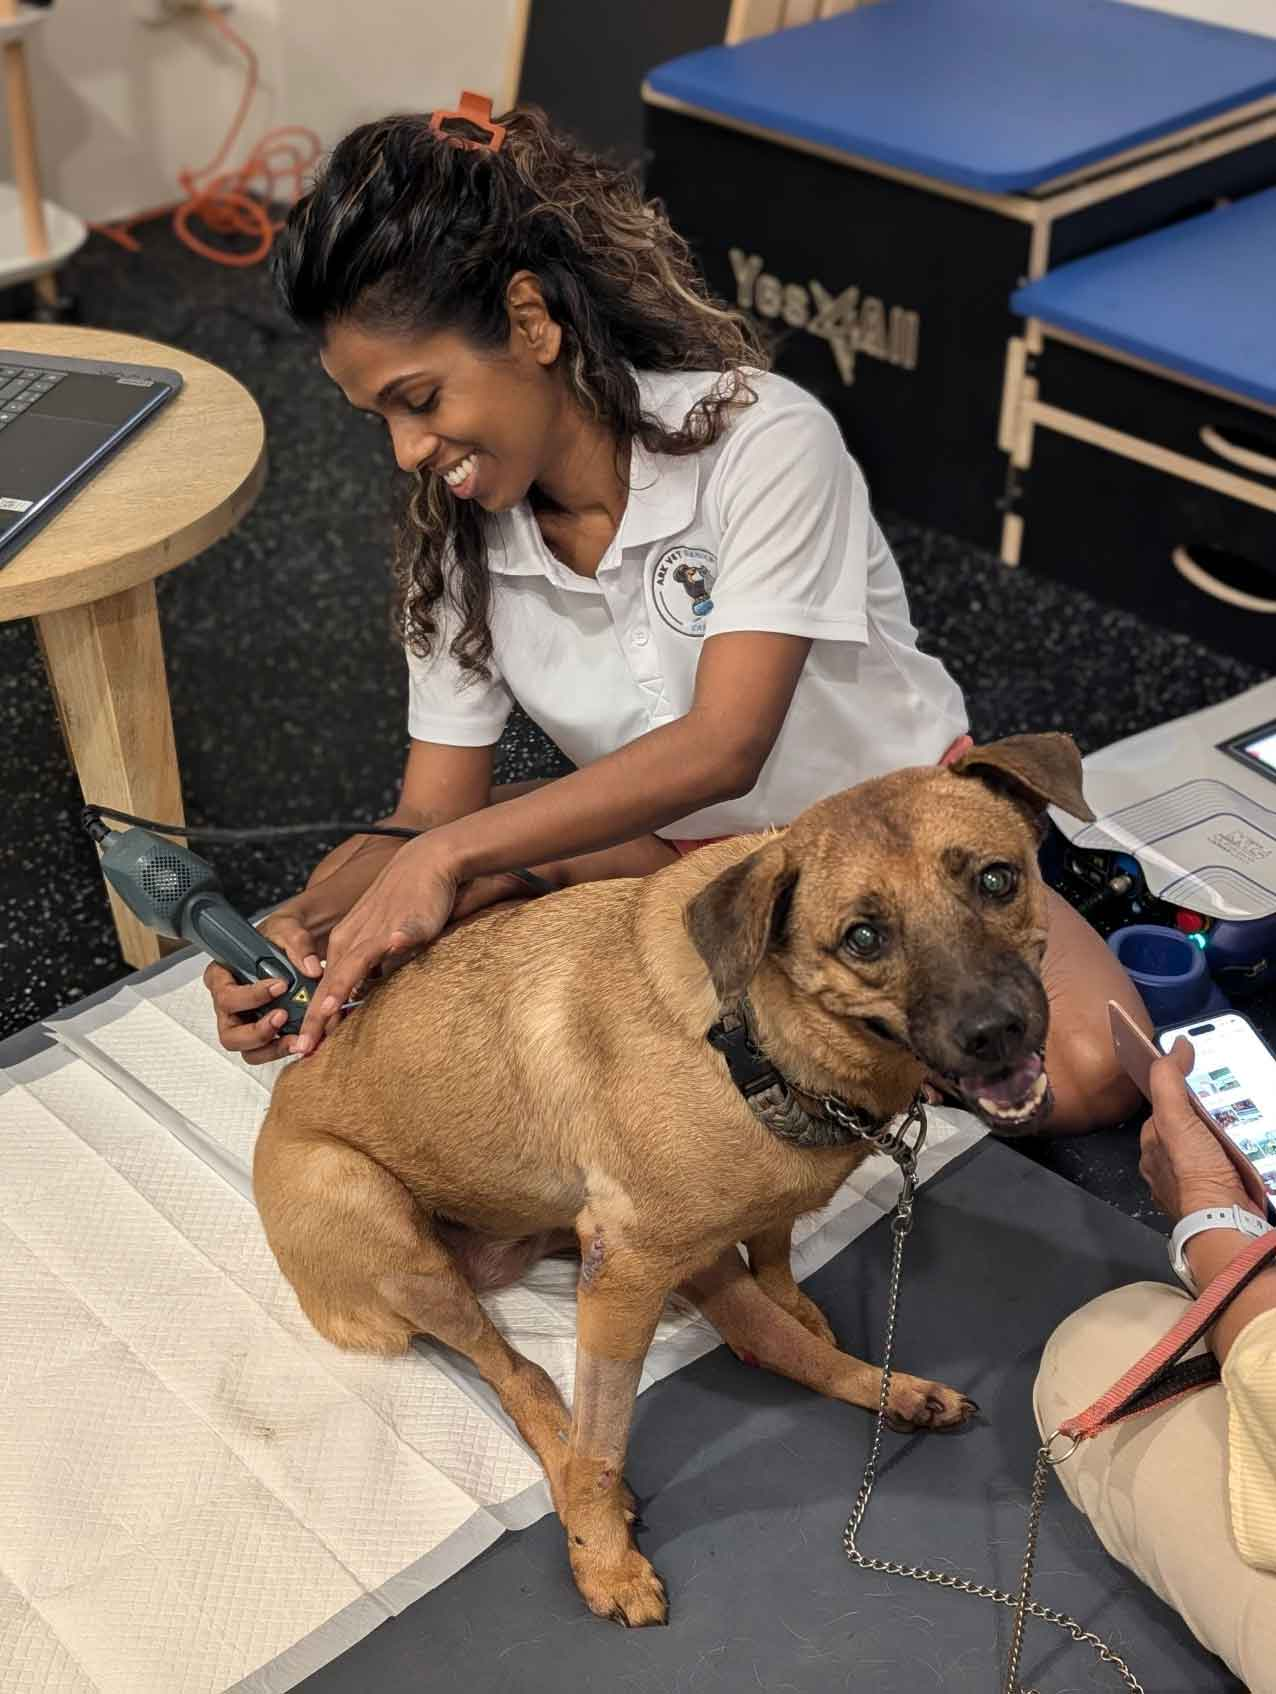
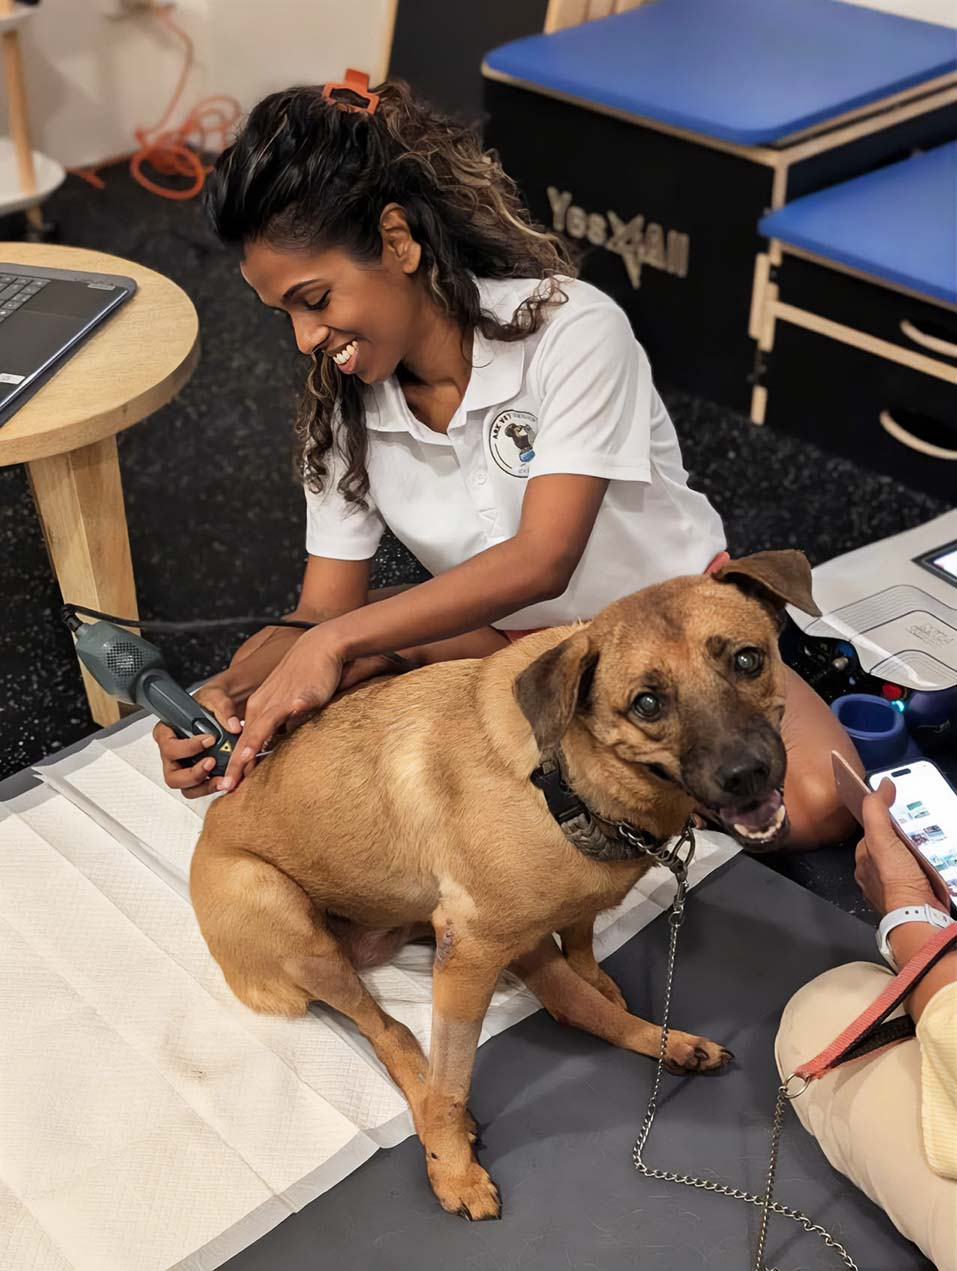
Add service images and refactor slideshow CSS
Add multiple service images (acupuncture, housecall, and updated arkvetrehab-home) and update images/.DS_Store. Major refactor of slideshow styles in style.css: remove duplicated per-service keyframes and animations and introduce unified sv2 (2-image) and sv3 (3-image) keyframes, consolidate slide/img selectors, set per-service durations/delays, and keep accessible prefers-reduced-motion fallbacks. Purpose: simplify animation logic, ensure consistent timing and easier maintenance.

Changed region(s): [[0.5152, 0.3068, 0.5455, 0.3682], [0.3333, 0.2762, 0.3636, 0.3068]]

diff --git a/style.css b/style.css
@@ -635,160 +635,113 @@ nav {
   height: 100%;
   object-fit: cover;
 }
-/* --- Slideshow keyframes --- */
-@keyframes slide-in  { 0%,45%{opacity:1} 55%,95%{opacity:0} 100%{opacity:1} }
-@keyframes slide-out { 0%,45%{opacity:0} 55%,95%{opacity:1} 100%{opacity:0} }
-@-webkit-keyframes slide-in  { 0%,45%{opacity:1} 55%,95%{opacity:0} 100%{opacity:1} }
-@-webkit-keyframes slide-out { 0%,45%{opacity:0} 55%,95%{opacity:1} 100%{opacity:0} }
+/* ========================================
+   Unified slideshow — pure opacity fade
+   2-img: 5s cycle (2.5s each)
+   3-img: 7.5s cycle (2.5s each)
+   ======================================== */
 
-/* --- Laser slideshow --- */
+/* 2-image keyframes */
+@keyframes sv2-show {
+  0%  { opacity:1; transform:scale(1.0);  }
+  42% { opacity:1; transform:scale(1.05); }
+  50% { opacity:0; transform:scale(1.05); }
+  92% { opacity:0; transform:scale(1.0);  }
+  100%{ opacity:1; transform:scale(1.0);  }
+}
+@keyframes sv2-hide {
+  0%  { opacity:0; transform:scale(1.0);  }
+  42% { opacity:0; transform:scale(1.0);  }
+  50% { opacity:1; transform:scale(1.0);  }
+  92% { opacity:1; transform:scale(1.05); }
+  100%{ opacity:0; transform:scale(1.05); }
+}
+@-webkit-keyframes sv2-show {
+  0%  { opacity:1; -webkit-transform:scale(1.0);  }
+  42% { opacity:1; -webkit-transform:scale(1.05); }
+  50% { opacity:0; -webkit-transform:scale(1.05); }
+  92% { opacity:0; -webkit-transform:scale(1.0);  }
+  100%{ opacity:1; -webkit-transform:scale(1.0);  }
+}
+@-webkit-keyframes sv2-hide {
+  0%  { opacity:0; -webkit-transform:scale(1.0);  }
+  42% { opacity:0; -webkit-transform:scale(1.0);  }
+  50% { opacity:1; -webkit-transform:scale(1.0);  }
+  92% { opacity:1; -webkit-transform:scale(1.05); }
+  100%{ opacity:0; -webkit-transform:scale(1.05); }
+}
+
+/* 3-image keyframe — cross-fade, always ≥1 image visible */
+@keyframes sv3-xfade {
+  0%   { opacity:0; transform:scale(1.0);  }
+  4%   { opacity:1; transform:scale(1.0);  }
+  28%  { opacity:1; transform:scale(1.05); }
+  40%  { opacity:0; transform:scale(1.05); }
+  100% { opacity:0; transform:scale(1.0);  }
+}
+@-webkit-keyframes sv3-xfade {
+  0%   { opacity:0; -webkit-transform:scale(1.0);  }
+  4%   { opacity:1; -webkit-transform:scale(1.0);  }
+  28%  { opacity:1; -webkit-transform:scale(1.05); }
+  40%  { opacity:0; -webkit-transform:scale(1.05); }
+  100% { opacity:0; -webkit-transform:scale(1.0);  }
+}
+
+/* Shared slide container + img base */
+.laser-slide, .tens-slide, .acu-slide, .house-slide {
+  position: absolute;
+  top: 0; right: 0; bottom: 0; left: 0;
+  z-index: 0;
+}
+.laser-slide img, .tens-slide img, .acu-slide img, .house-slide img {
+  position: absolute;
+  top: 0; right: 0; bottom: 0; left: 0;
+  width: 100%; height: 100%;
+  object-fit: cover;
+  border-radius: var(--radius-md);
+  will-change: opacity, transform;
+  -webkit-backface-visibility: hidden;
+  backface-visibility: hidden;
+}
+
+/* --- Laser (2-img, ~4.8s) --- */
 .service-visual.v-laser { background: var(--cream); }
-.laser-slide {
-  position: absolute;
-  top: 0; right: 0; bottom: 0; left: 0;
-  z-index: 0;
-}
-.laser-slide img {
-  position: absolute;
-  top: 0; right: 0; bottom: 0; left: 0;
-  width: 100%;
-  height: 100%;
-  object-fit: cover;
-  border-radius: var(--radius-md);
-  will-change: opacity;
-  -webkit-backface-visibility: hidden;
-  backface-visibility: hidden;
-}
-.laser-slide img:nth-child(1) {
-  opacity: 1;
-  -webkit-animation: slide-in 6s ease-in-out infinite;
-  animation: slide-in 6s ease-in-out infinite;
-}
-.laser-slide img:nth-child(2) {
-  opacity: 0;
-  -webkit-animation: slide-out 6s ease-in-out infinite;
-  animation: slide-out 6s ease-in-out infinite;
-}
-@media (prefers-reduced-motion: reduce) {
-  .laser-slide img:nth-child(1) { -webkit-animation: none; animation: none; opacity: 1; }
-  .laser-slide img:nth-child(2) { display: none; }
+.laser-slide img:nth-child(1) { opacity:1; -webkit-animation:sv2-show 4.8s ease-in-out infinite; animation:sv2-show 4.8s ease-in-out infinite; }
+.laser-slide img:nth-child(2) { opacity:0; -webkit-animation:sv2-hide 4.8s ease-in-out infinite; animation:sv2-hide 4.8s ease-in-out infinite; }
+@media(prefers-reduced-motion:reduce){
+  .laser-slide img:nth-child(1){animation:none;opacity:1}
+  .laser-slide img:nth-child(2){display:none}
 }
 
-/* --- TENS slideshow --- */
+/* --- TENS (2-img, ~5.3s) --- */
 .service-visual.v-tens { background: var(--cream); }
-.tens-slide {
-  position: absolute;
-  top: 0; right: 0; bottom: 0; left: 0;
-  z-index: 0;
+.tens-slide img:nth-child(1) { opacity:1; -webkit-animation:sv2-show 5.3s ease-in-out infinite; animation:sv2-show 5.3s ease-in-out infinite; }
+.tens-slide img:nth-child(2) { opacity:0; -webkit-animation:sv2-hide 5.3s ease-in-out infinite; animation:sv2-hide 5.3s ease-in-out infinite; }
+@media(prefers-reduced-motion:reduce){
+  .tens-slide img:nth-child(1){animation:none;opacity:1}
+  .tens-slide img:nth-child(2){display:none}
 }
-.tens-slide img {
-  position: absolute;
-  top: 0; right: 0; bottom: 0; left: 0;
-  width: 100%;
-  height: 100%;
-  object-fit: cover;
-  border-radius: var(--radius-md);
-  will-change: opacity;
-  -webkit-backface-visibility: hidden;
-  backface-visibility: hidden;
-}
-.tens-slide img:nth-child(1) {
-  opacity: 1;
-  -webkit-animation: slide-in 6s ease-in-out infinite;
-  animation: slide-in 6s ease-in-out infinite;
-}
-.tens-slide img:nth-child(2) {
-  opacity: 0;
-  -webkit-animation: slide-out 6s ease-in-out infinite;
-  animation: slide-out 6s ease-in-out infinite;
-}
-@media (prefers-reduced-motion: reduce) {
-  .tens-slide img:nth-child(1) { -webkit-animation: none; animation: none; opacity: 1; }
-  .tens-slide img:nth-child(2) { display: none; }
-}
+
+/* --- Acupuncture (3-img, 7.5s) --- */
 .service-visual.v-acu { background: var(--cream); }
-.acu-slide {
-  position: absolute;
-  top: 0; right: 0; bottom: 0; left: 0;
-  z-index: 0;
+.acu-slide img { opacity:0; will-change:opacity,transform; }
+.acu-slide img:nth-child(1) { -webkit-animation:sv3-xfade 7.5s ease-in-out 0s    infinite; animation:sv3-xfade 7.5s ease-in-out 0s    infinite; }
+.acu-slide img:nth-child(2) { -webkit-animation:sv3-xfade 7.5s ease-in-out -5s   infinite; animation:sv3-xfade 7.5s ease-in-out -5s   infinite; }
+.acu-slide img:nth-child(3) { -webkit-animation:sv3-xfade 7.5s ease-in-out -2.5s infinite; animation:sv3-xfade 7.5s ease-in-out -2.5s infinite; }
+@media(prefers-reduced-motion:reduce){
+  .acu-slide img:nth-child(1){animation:none;opacity:1}
+  .acu-slide img:nth-child(2),.acu-slide img:nth-child(3){display:none}
 }
-.acu-slide img {
-  position: absolute;
-  top: 0; right: 0; bottom: 0; left: 0;
-  width: 100%; height: 100%;
-  object-fit: cover;
-  border-radius: var(--radius-md);
-  opacity: 0;
-  will-change: opacity, transform;
-  -webkit-backface-visibility: hidden;
-  backface-visibility: hidden;
-  -webkit-animation: acu-show 6s ease-in-out infinite;
-  animation: acu-show 6s ease-in-out infinite;
-}
-.acu-slide img:nth-child(1) { animation-delay:  0s; -webkit-animation-delay:  0s; }
-.acu-slide img:nth-child(2) { animation-delay: -4s; -webkit-animation-delay: -4s; }
-.acu-slide img:nth-child(3) { animation-delay: -2s; -webkit-animation-delay: -2s; }
 
-@keyframes acu-show {
-  0%   { opacity: 0; transform: scale(1.06) translateX(6px); }
-  6%   { opacity: 1; transform: scale(1.06) translateX(6px); }
-  27%  { opacity: 1; transform: scale(1.0)  translateX(0px); }
-  33%  { opacity: 0; transform: scale(1.0)  translateX(0px); }
-  100% { opacity: 0; transform: scale(1.06) translateX(6px); }
-}
-@-webkit-keyframes acu-show {
-  0%   { opacity: 0; -webkit-transform: scale(1.06) translateX(6px); }
-  6%   { opacity: 1; -webkit-transform: scale(1.06) translateX(6px); }
-  27%  { opacity: 1; -webkit-transform: scale(1.0)  translateX(0px); }
-  33%  { opacity: 0; -webkit-transform: scale(1.0)  translateX(0px); }
-  100% { opacity: 0; -webkit-transform: scale(1.06) translateX(6px); }
-}
-@media (prefers-reduced-motion: reduce) {
-  .acu-slide img:nth-child(1) { animation: none; -webkit-animation: none; opacity: 1; transform: none; }
-  .acu-slide img:nth-child(2),
-  .acu-slide img:nth-child(3) { display: none; }
-}
+/* --- Housecall (3-img, 8s) --- */
 .service-visual.v-house { background: var(--cream); }
-.house-slide {
-  position: absolute;
-  top: 0; right: 0; bottom: 0; left: 0;
-  z-index: 0;
-}
-.house-slide img {
-  position: absolute;
-  top: 0; right: 0; bottom: 0; left: 0;
-  width: 100%; height: 100%;
-  object-fit: cover;
-  border-radius: var(--radius-md);
-  opacity: 0;
-  will-change: opacity, transform;
-  -webkit-backface-visibility: hidden;
-  backface-visibility: hidden;
-  -webkit-animation: house-drift 9s ease-in-out infinite;
-  animation: house-drift 9s ease-in-out infinite;
-}
-.house-slide img:nth-child(1) { animation-delay: 0s;  -webkit-animation-delay: 0s;  }
-.house-slide img:nth-child(2) { animation-delay: -6s; -webkit-animation-delay: -6s; }
-.house-slide img:nth-child(3) { animation-delay: -3s; -webkit-animation-delay: -3s; }
-
-@keyframes house-drift {
-  0%   { opacity: 0; transform: translateY(14px) scale(1.04); }
-  6%   { opacity: 1; transform: translateY(14px) scale(1.04); }
-  28%  { opacity: 1; transform: translateY(0px)  scale(1.0);  }
-  33%  { opacity: 0; transform: translateY(-6px) scale(1.0);  }
-  100% { opacity: 0; transform: translateY(14px) scale(1.04); }
-}
-@-webkit-keyframes house-drift {
-  0%   { opacity: 0; -webkit-transform: translateY(14px) scale(1.04); }
-  6%   { opacity: 1; -webkit-transform: translateY(14px) scale(1.04); }
-  28%  { opacity: 1; -webkit-transform: translateY(0px)  scale(1.0);  }
-  33%  { opacity: 0; -webkit-transform: translateY(-6px) scale(1.0);  }
-  100% { opacity: 0; -webkit-transform: translateY(14px) scale(1.04); }
-}
-@media (prefers-reduced-motion: reduce) {
-  .house-slide img:nth-child(1) { animation: none; -webkit-animation: none; opacity: 1; transform: none; }
-  .house-slide img:nth-child(2),
-  .house-slide img:nth-child(3) { display: none; }
+.house-slide img { opacity:0; will-change:opacity,transform; }
+.house-slide img:nth-child(1) { -webkit-animation:sv3-xfade 8s ease-in-out 0s                infinite; animation:sv3-xfade 8s ease-in-out 0s                infinite; }
+.house-slide img:nth-child(2) { -webkit-animation:sv3-xfade 8s ease-in-out -5.33s            infinite; animation:sv3-xfade 8s ease-in-out -5.33s            infinite; }
+.house-slide img:nth-child(3) { -webkit-animation:sv3-xfade 8s ease-in-out -2.67s            infinite; animation:sv3-xfade 8s ease-in-out -2.67s            infinite; }
+@media(prefers-reduced-motion:reduce){
+  .house-slide img:nth-child(1){animation:none;opacity:1}
+  .house-slide img:nth-child(2),.house-slide img:nth-child(3){display:none}
 }
 
 .service-tag-row {
